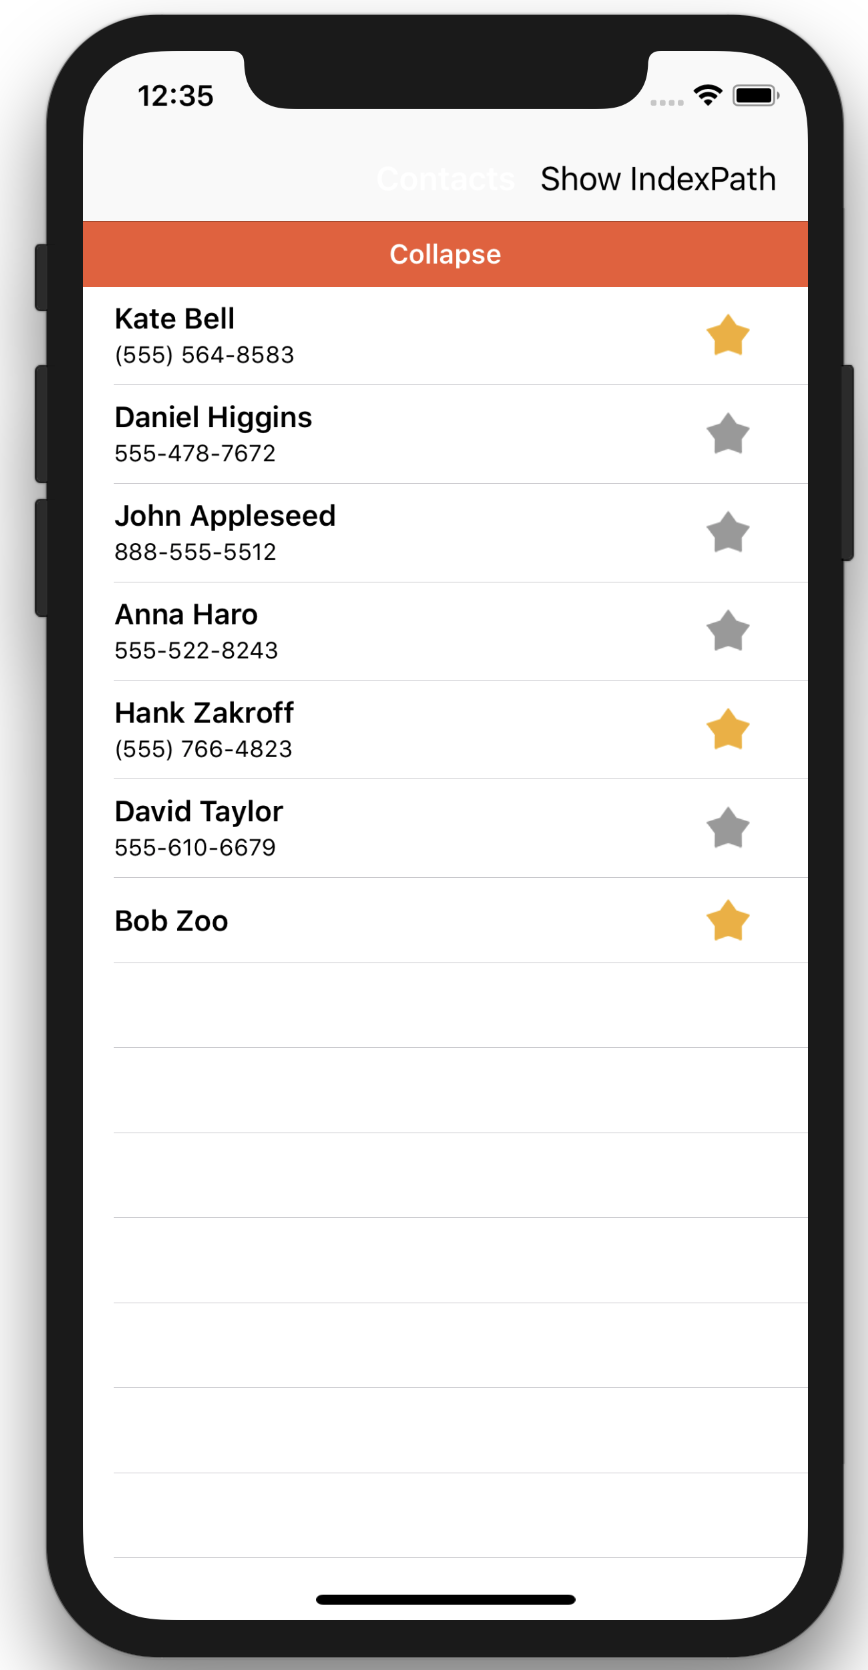
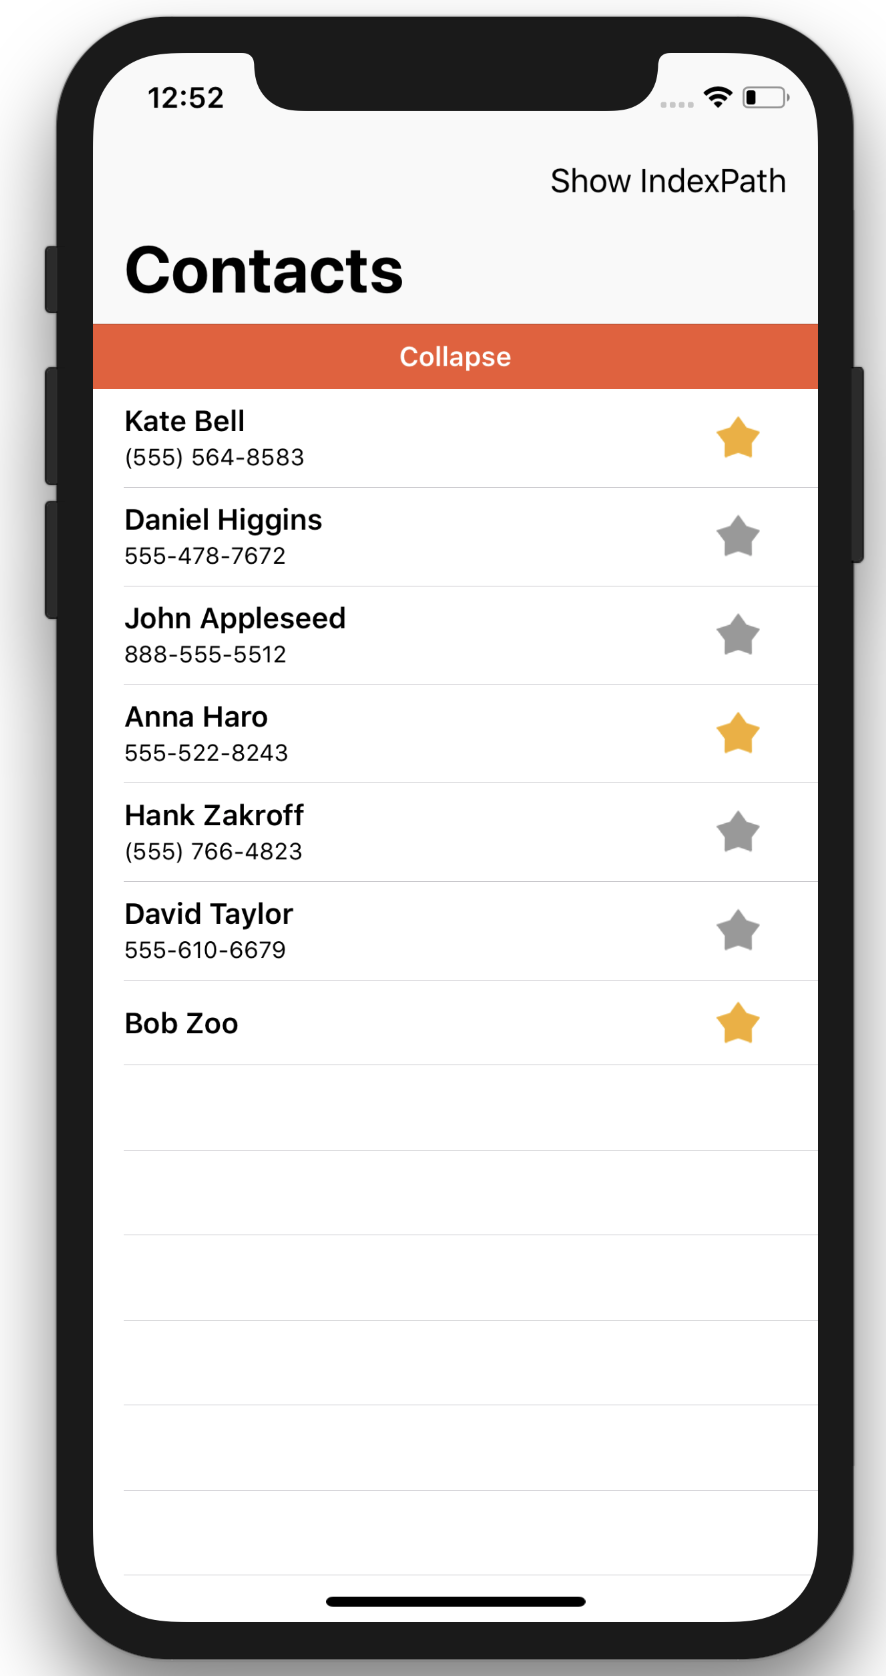
Screenshots update.

diff --git a/Contacts-App/Controllers/ViewController.swift b/Contacts-App/Controllers/ViewController.swift
@@ -30,7 +30,7 @@ class ViewController: UITableViewController {
         navigationItem.rightBarButtonItem?.tintColor = #colorLiteral(red: 0, green: 0, blue: 0, alpha: 1)
         
         navigationItem.title = "Contacts"
-        navigationController?.navigationBar.titleTextAttributes = [NSAttributedStringKey.foregroundColor: UIColor.white]
+        navigationController?.navigationBar.titleTextAttributes = [NSAttributedStringKey.foregroundColor: UIColor.black]
         navigationController?.navigationBar.prefersLargeTitles = true
     }
 }
